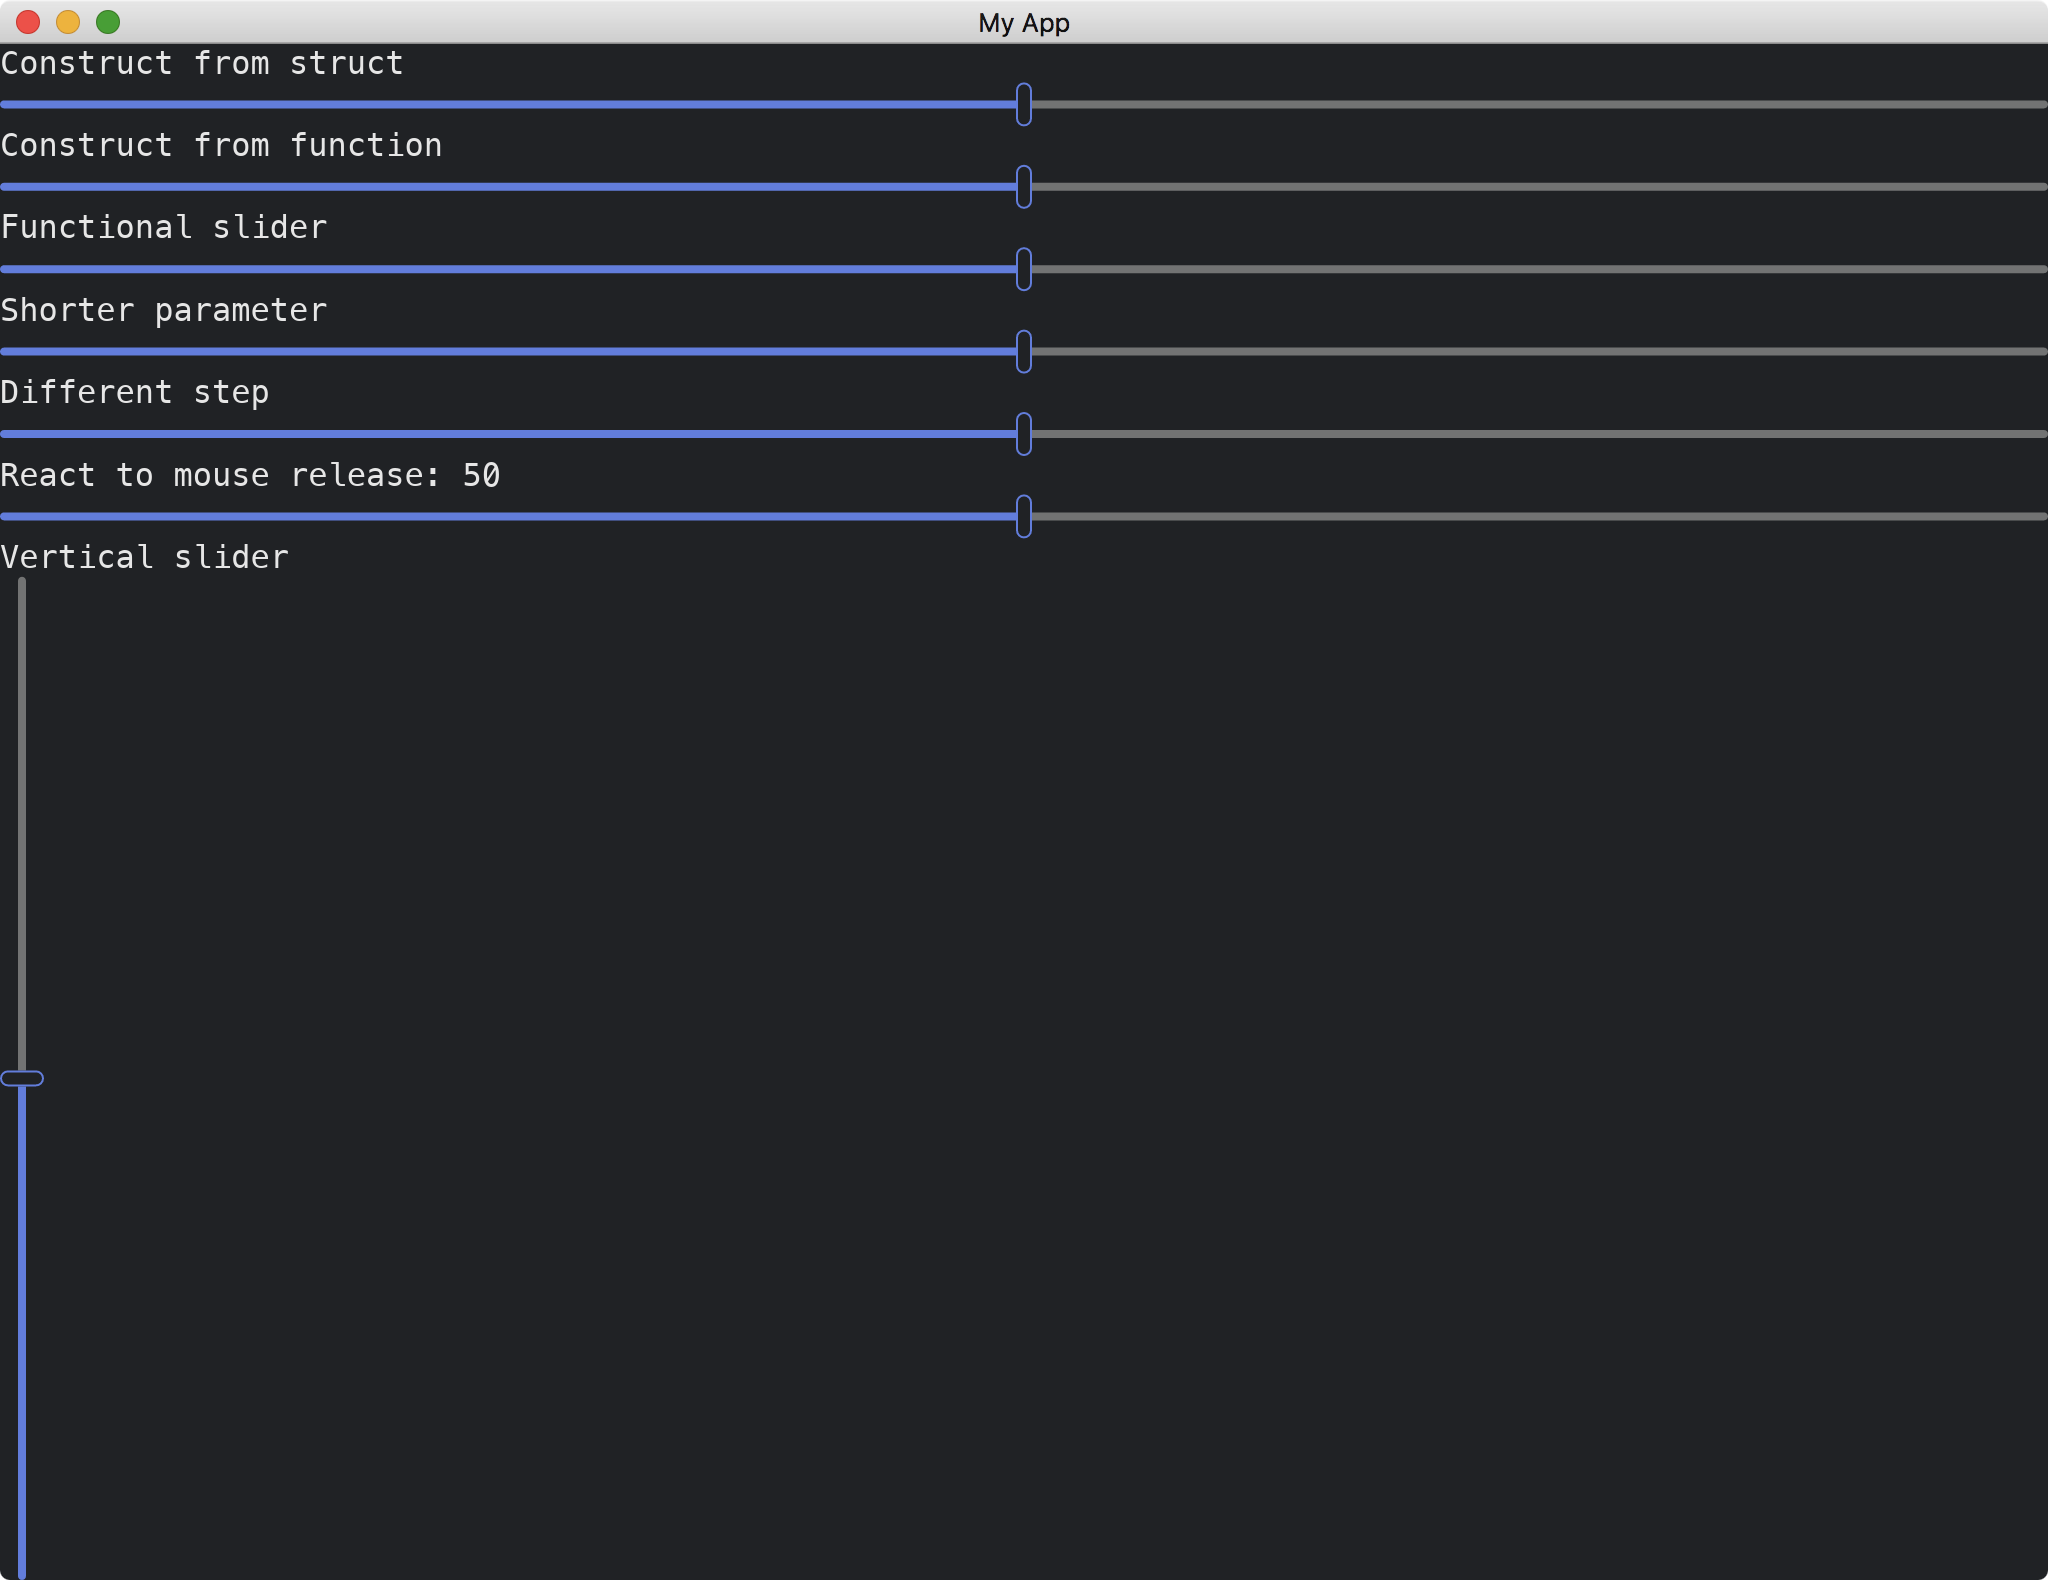
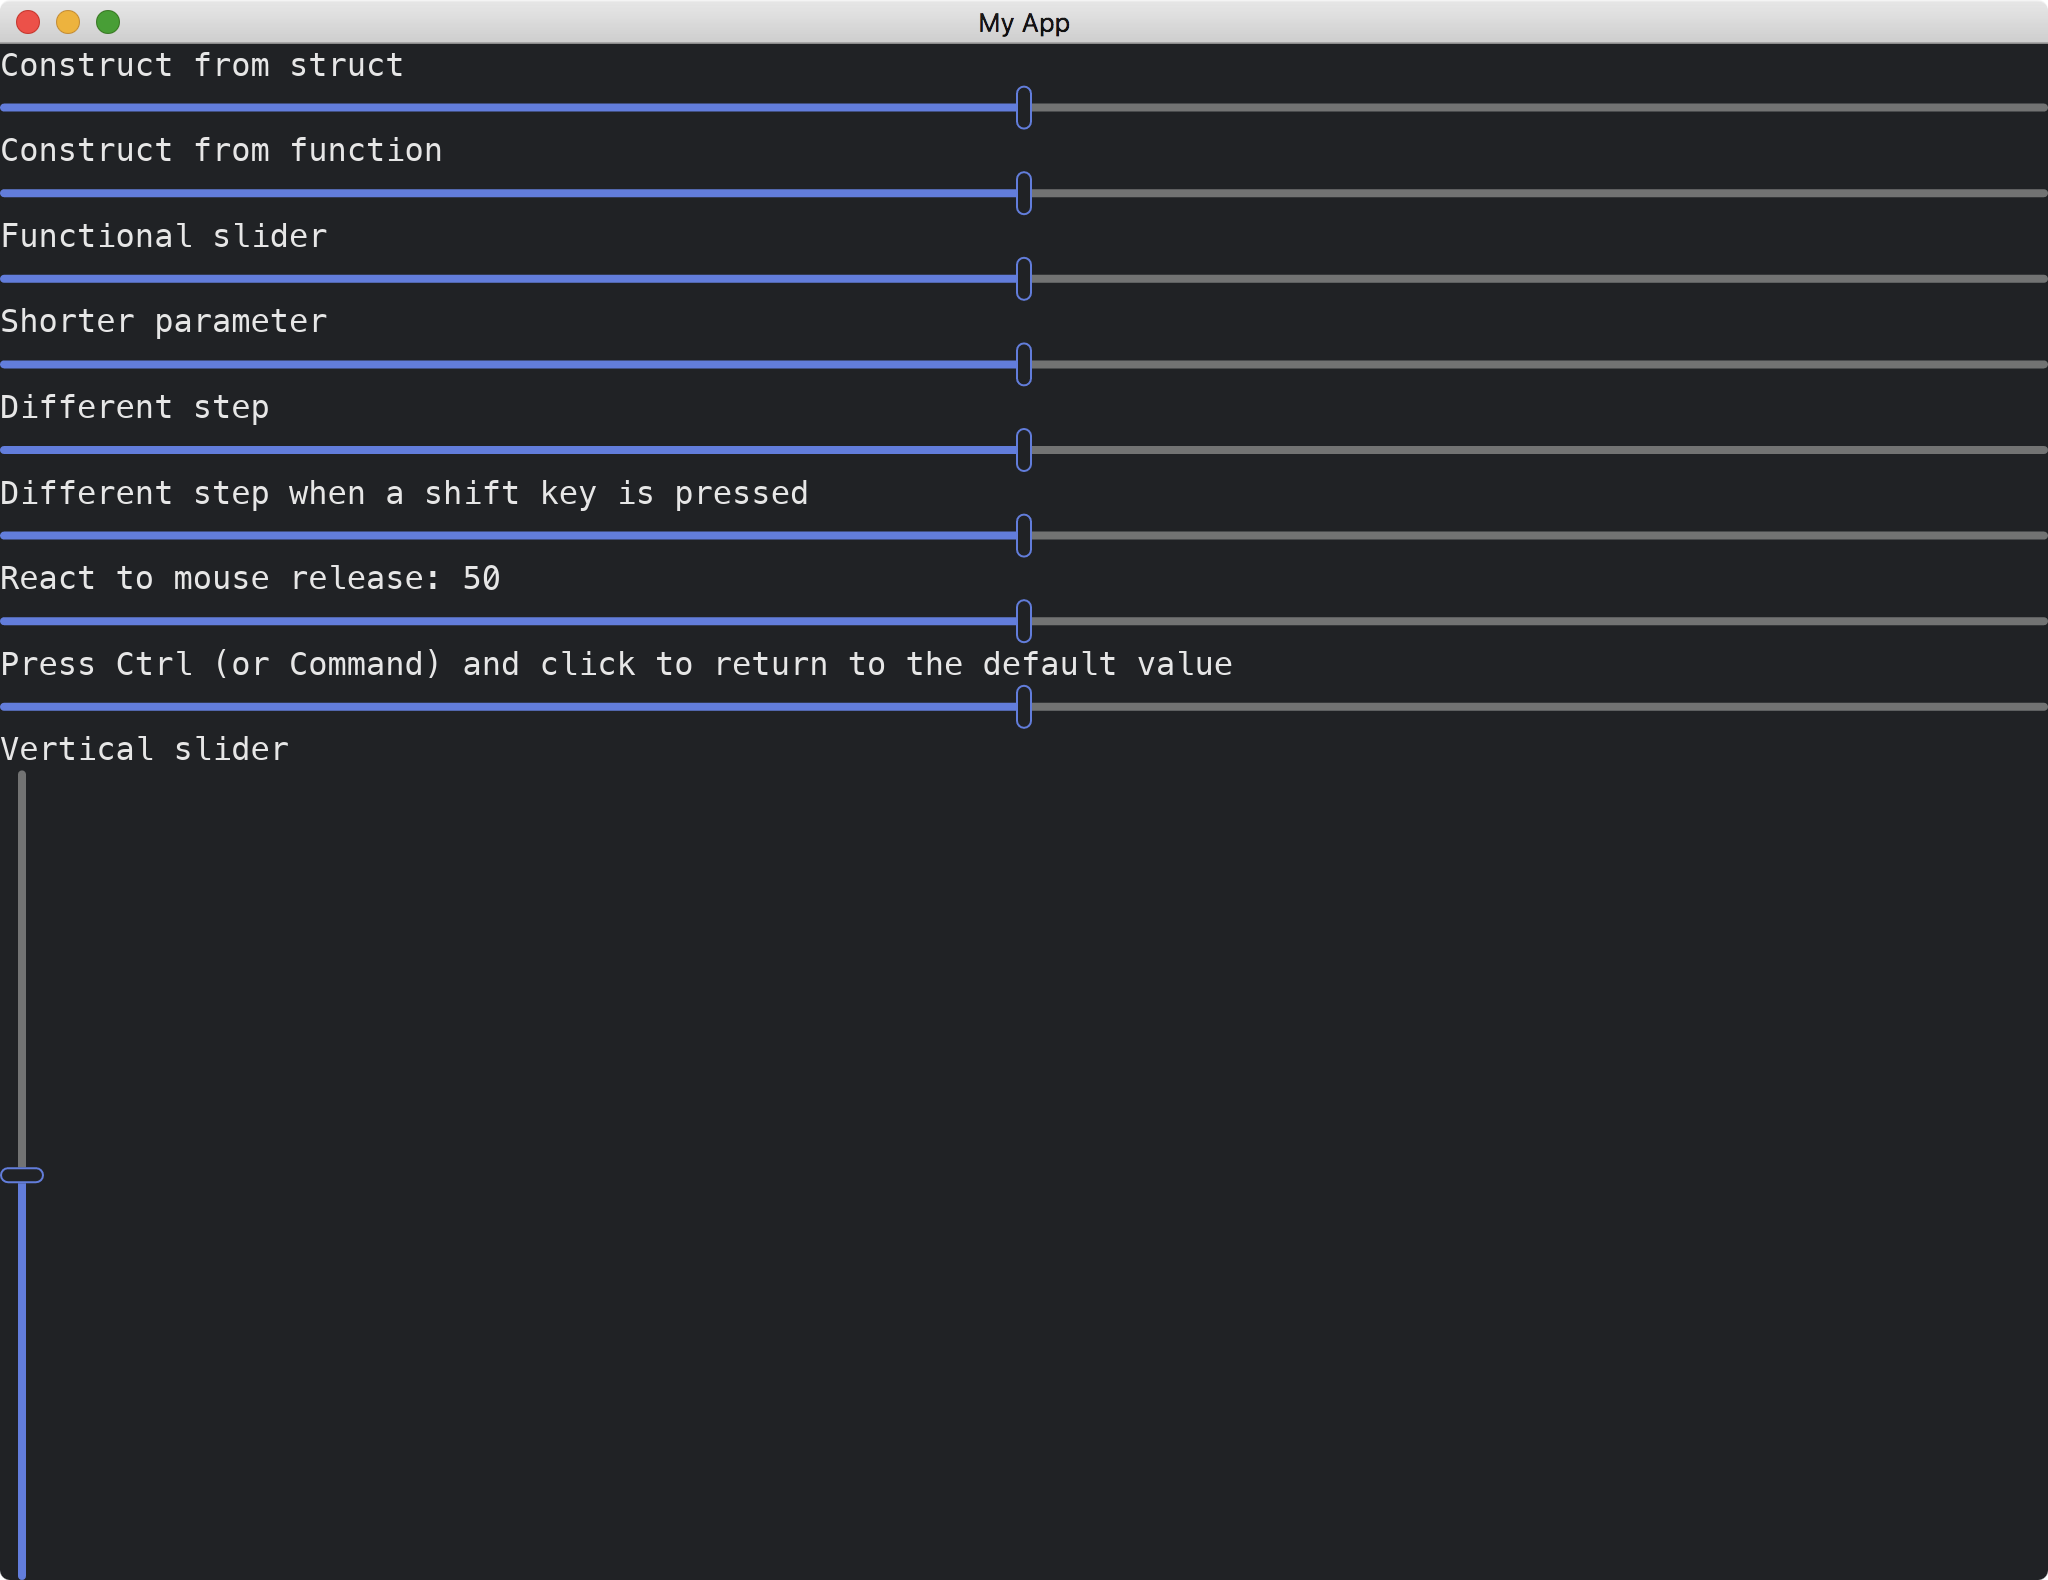
Update tutorial to 0.12.1 for slider

Changed region(s): [[0.0, 0.031, 1.0, 0.4962], [0.0, 0.6823, 0.0312, 0.7443]]

diff --git a/tutorial/slider.md b/tutorial/slider.md
@@ -23,7 +23,9 @@ enum MyAppMessage {
     Update4(u32),
     Update5(u32),
     Update6(u32),
-    Release6,
+    Update7(u32),
+    Release7,
+    Update8(u32),
 }
 
 struct MyApp {
@@ -31,7 +33,9 @@ struct MyApp {
     value4: u32,
     value5: u32,
     value6: u32,
-    released_value_6: u32,
+    value7: u32,
+    released_value_7: u32,
+    value8: u32,
 }
 
 impl Sandbox for MyApp {
@@ -43,7 +47,9 @@ impl Sandbox for MyApp {
             value4: 50,
             value5: 50,
             value6: 50,
-            released_value_6: 50,
+            value7: 50,
+            released_value_7: 50,
+            value8: 50,
         }
     }
 
@@ -58,7 +64,9 @@ impl Sandbox for MyApp {
             MyAppMessage::Update4(v) => self.value4 = v,
             MyAppMessage::Update5(v) => self.value5 = v,
             MyAppMessage::Update6(v) => self.value6 = v,
-            MyAppMessage::Release6 => self.released_value_6 = self.value6,
+            MyAppMessage::Update7(v) => self.value7 = v,
+            MyAppMessage::Release7 => self.released_value_7 = self.value7,
+            MyAppMessage::Update8(v) => self.value8 = v,
         }
     }
 
@@ -74,8 +82,12 @@ impl Sandbox for MyApp {
             slider(0..=100, self.value4, MyAppMessage::Update4),
             text("Different step"),
             slider(0..=100, self.value5, MyAppMessage::Update5).step(10u32),
-            text(format!("React to mouse release: {}", self.released_value_6)),
-            slider(0..=100, self.value6, MyAppMessage::Update6).on_release(MyAppMessage::Release6),
+            text("Different step when a shift key is pressed"),
+            slider(0..=100, self.value6, MyAppMessage::Update6).shift_step(10u32),
+            text(format!("React to mouse release: {}", self.released_value_7)),
+            slider(0..=100, self.value7, MyAppMessage::Update7).on_release(MyAppMessage::Release7),
+            text("Press Ctrl (or Command) and click to return to the default value"),
+            slider(0..=100, self.value8, MyAppMessage::Update8).default(30u32),
             text("Vertical slider"),
             vertical_slider(0..=100, 50, |_| MyAppMessage::DoNothing),
         ]
